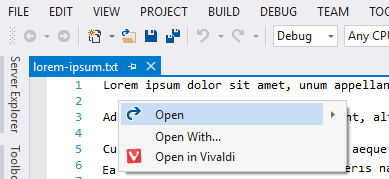
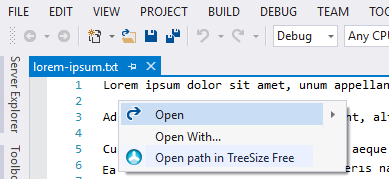
artwork and change log

Changed region(s): [[0.401, 0.838, 0.7712, 0.9218], [0.3085, 0.8101, 0.3702, 0.9218]]

diff --git a/src/OpenInTreeSizeFree/source.extension.cs b/src/OpenInTreeSizeFree/source.extension.cs
@@ -9,9 +9,9 @@ namespace OpenInTreeSizeFree
     {
         public const string Id = "0597a0d5-0bfc-44a5-924c-b556c5047018";
         public const string Name = "Open path in TreeSize Free";
-        public const string Description = @"Open multiple file paths simultaneously in TreeSize Free directly from Solution Explorer or Code Editor window.";
+        public const string Description = @"Open multiple folders simultaneously in TreeSize Free directly from Solution Explorer or Code Editor window.";
         public const string Language = "en-US";
-        public const string Version = "1.1.11";
+        public const string Version = "1.1.12";
         public const string Author = "GregTrevellick";
         public const string Tags = "open, open in, TreeSize, TreeSize Free, TreeSizeFree";
     }

diff --git a/CHANGELOG.md b/CHANGELOG.md
@@ -2,8 +2,8 @@
 
 These are the changes to each version that has been released in the Visual Studio Marketplace.
 
-## 1.1.11
-**2017-05-26**
+## 1.1.12
+**2017-05-28**
 - [x] Addition of Open In TreeSize Free
 
 ## 1.1.10
